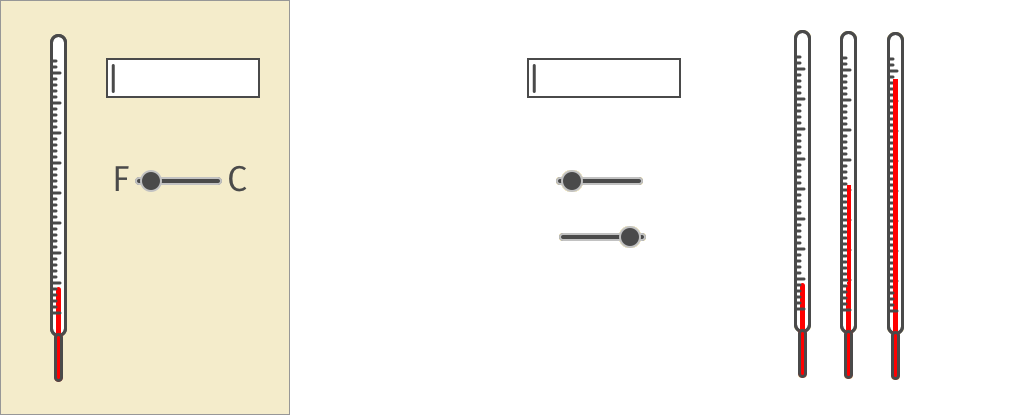
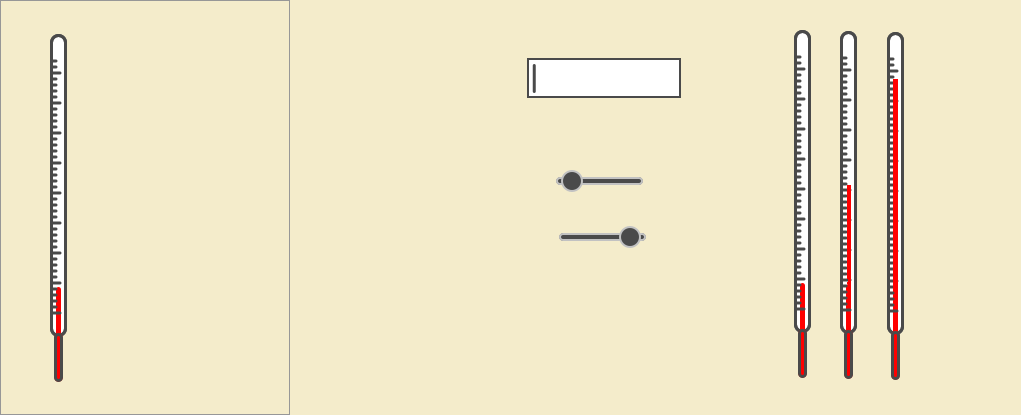
Termometro pygame

diff --git a/main.py b/main.py
@@ -1,6 +1,98 @@
 import pygame, sys
 from pygame.locals import *
 
+class Termometro():
+    def __init__(self):
+        self.custome = pygame.image.load('image/traineeApps04.png')
+class NumberInput():
+    __value = 0
+    __strValue = '0'
+    __position = [0,0]
+    __size = [0,0]
+    def __init__(self,value=0):
+        self.__font = pygame.font.SysFont("Arial",24)
+        
+    def render(self):
+        textBlock = self.__font.render(self.__strValue , True , (74,74,74))
+        rect = textBlock.get_rect()
+        rect.left = self.__position[0]
+        rect.top = self.__position[1]
+        rect.size = self.__size
+        '''
+        return {
+                'fondo':rect,
+                'text: textBlock
+                }'''
+        return (rect,textBlock)
+        
+    def value(self, val = None):
+        if val == None:
+            return self.__value
+        else:
+            val = str(val)
+            try:
+                self.__value = int(val)
+                self.__strValue = val
+            except:
+                pass
+    def width(self, val = None):
+        if val == None:
+            return self.__size[0]
+        else:
+            try:
+                self.__position[0] = int(val)
+            except:
+                pass
+            
+    def height(self, val = None):
+        if val == None:
+            return self.__size[1]
+        else:
+            try:
+                self.__position[1] = int(val)
+            except:
+                pass
+            
+    def posX(self, val = None):
+        if val == None:
+            return self.__position[0]
+        else:
+            try:
+                self.__position[0] = int(val)
+            except:
+                pass
+            
+    def posY(self, val = None):
+        if val == None:
+            return self.__position[1]
+        else:
+            try:
+                self.__position[1] = int(val)
+            except:
+                pass
+            
+    def pos(self, val = None):
+        if val == None:
+            return self.__position
+        else:
+            try:
+                self.__position = [int(val[0]), int(val[1])]
+            except:
+                pass
+            
+    def size(self, val = None):
+        if val == None:
+            return self.__size
+        else:
+            try:
+                w = int(val[0])
+                h = int(val[1])
+                self.__size = [int(val[0]), int(val[1])]
+            except:
+                pass
+        
+    
+
 class mainApp():
     termometro = None
     entrada = None
@@ -10,6 +102,13 @@ class mainApp():
         self.__screen = pygame.display.set_mode((290,415))
         pygame.display.set_caption('Termometro')
         self.__screen.fill((244,236,203))
+        
+        self.termometro = Termometro()
+        self.entrada = NumberInput()
+        self.entrada.pos((106,58))
+        self.entrada.size((133,28))
+        
+        
     def __in_close(self):
         pygame.quit()
         sys.exit
@@ -18,8 +117,14 @@ class mainApp():
             for event in pygame.event.get():
                 if event.type == QUIT:
                     self.__on_close()
-                    
+            # pinta el termometro en su posicion
+            self.__screen.blit(self.termometro.custome,(0,0))
+            #pintamos el cuadro de texto
+            text = self.entrada.render() #obtenemos rectangulo blanco y foto texto y lo asignamos a text
+            pygame.draw.rect(self.__screen,(255,255,255),text[0])#crear rectangulo blanco con su posicion y tamano text[0]
+            self.__screen.blit(text[1],self.entrada.pos())#pintamos la foto del texto (text[1])
             pygame.display.flip()
+
 if __name__ == '__main__':
     pygame.font.init()
     app = mainApp()
